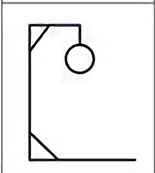
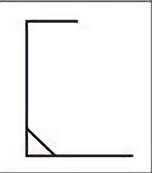
bug fixed, need refactor code

Changed region(s): [[0.1579, 0.0867, 0.8947, 0.9538], [0.0, 0.0, 1.0, 1.0]]

diff --git a/src/components/game/game.js b/src/components/game/game.js
@@ -2,6 +2,7 @@ import Input from "./gameComponents/guessInput"
 import Hangman from "./gameComponents/hangman"
 import Display from "./gameComponents/letterDisplay"
 import Score from "./gameComponents/scoreRoundDisplay"
+import GuessDisplay from "./gameComponents/guessDisplay"
 import React  from "react"
 import {getRandomWord} from "../../utils"
 
@@ -21,24 +22,26 @@ class Game extends React.Component {
       isRoundDone: false,
     };
 
-    this.updateGuess = this.updateGuess.bind(this);
+    this.updateGuessAndWins = this.updateGuessAndWins.bind(this);
+    this.nextGame = this.nextGame.bind(this)
+    this.restart = this.restart.bind(this)
   }
-
+  
   //Update user's guess
   //there will be a lot of temp variable with similar name as state which is used to update the state
-  updateGuessAndWins = (userGuess) => {
+  async updateGuessAndWins(userGuess){
     //if user was trying to guess the word
     if (userGuess.length === this.state.currWord.length) {
       if (userGuess === this.state.currWord) {
         let gamesWon = this.state.wins;
-        this.setState({
+        await this.setState({
           wins: gamesWon + 1,
           isRoundDone: true,
         });
       } else {
         let guessLeft = this.state.numOfGuess;
-        this.setState({
-          numGuess: guessLeft - 1,
+        await this.setState({
+          numGuess: guessLeft + 1,
         });
       }
     }
@@ -54,26 +57,32 @@ class Game extends React.Component {
       if (this.state.currWord.includes(userGuess)) {
         let updateDisplay = this.state.displayLetters;
         updateDisplay.push(userGuess);
-        this.setState({
+        await this.setState({
           displayLetters: updateDisplay,
           gussedletters: updateGuess,
         });
       } else {
         let numGuess = this.state.numOfGuess;
-        this.setState({
+        await this.setState({
           guessedLetters: updateGuess,
-          numOfGuess: numGuess - 1,
+          numOfGuess: numGuess + 1,
+          //isRoundDone: numGuess + 1 === this.state.numOfAllowedGuess ? true : false 
         });
       }
     }
     //rejects
-    else {
+    //catch numbers
+    else if(isNaN(userGuess) !== true){
       alert("Please eneter a SINGLE letter or the word you want to guess.");
+    }
+    else{
+      alert("Please eneter a SINGLE letter or the word you want to guess.");
+      console.log(this.state)
     }
 
     //Update win condition (letters)
     const letterToWin = new Set(...this.state.currWord)
-    if(this.state.numOfGuess === this.state.numOfAllowedGuess || letterToWin.length === this.state.displayLetters.length){
+    if(this.state.numOfGuess === this.state.numOfAllowedGuess || letterToWin.size === this.state.displayLetters.length){
       let win = this.state.wins
       //loss
       if(this.state.numOfGuess === this.state.numOfAllowedGuess){
@@ -82,7 +91,7 @@ class Game extends React.Component {
         });
       }
       //win
-      else if (letterToWin.length === this.state.displayLetters.length){
+      else if (letterToWin.size === this.state.displayLetters.length){
         this.setState({
           isRoundDone: true,
           wins: win + 1,
@@ -92,23 +101,42 @@ class Game extends React.Component {
         console.log("I don't know how you managed to get to here.")
       }
     }
-
+    console.log(this.state.isRoundDone)
   };
+
+  nextGame = () => {
+    const nextRound = this.state.rounds
+    this.setState({
+      currWord: "destiny",
+      guessedLetters: [],
+      displayLetters: [],
+      numOfGuess: 0,
+      userGuess: "",
+      currRound: 1,
+      rounds: nextRound + 1,
+      isRoundDone: false,
+    });
+  }
+
+  restart = () => {
+    this.props.restart()
+  }
 
   render() {
     let button = <p></p>
     if(this.state.currRound === this.state.rounds){
-      button = <button onClick={this.nextGame}>Next Round</button>
-    }
-    else{
       button = <button onClick={this.restart}>Replay Game</button>
     }
-    
+    else{
+      button = <button onClick={this.nextGame}>Next Game</button>
+    }
+    console.log(this.state.numOfGuess, this.state.numOfAllowedGuess)
     return (
       <div>
-        <Score score={this.state.wins} total={this.state.currRound} />
+        <Score score={this.state.wins} currentRound={this.state.currRound} />
         <Display word={this.state.currWord} display={this.state.displayLetters} />
-        <Input getGuess={this.updateGuess} />
+        <GuessDisplay letters={this.state.guessedLetters}/>
+        <Input getGuess={this.updateGuessAndWins} />
         {this.state.isRoundDone && button}
         <Hangman numGuess={this.state.numOfAllowedGuess} guessLeft={this.state.numOfGuess}/>
       </div>

diff --git a/src/App.js b/src/App.js
@@ -22,21 +22,30 @@ class App extends React.Component {
   }
 
   setGameUp = (data) =>{
+    console.log(data)
     this.setState({
       gameMode: data.gameMode,
       guess: parseInt(data.guess),
       rounds: parseInt(data.rounds)
-    },console.log(this.state.guess, this.state.rounds))
+    })
+
+  }
+
+  reset = () =>{
+    this.setState({
+      gameMode: "Start"
+    })
   }
 
   // Insert form callback functions handleChange and handleSubmit here
 
   render() {
+    console.log(this.state.guess, this.state.rounds);
     return (
       <div className="App">
         <header className="App-header">
           {this.state.gameMode === "Start" && (<Start setUp={this.setGameUp} />)}
-          {this.state.gameMode === "Game" && <Game guess={this.state.guess} rounds={this.state.rounds}/>}
+          {this.state.gameMode === "Game" && <Game guess={this.state.guess} rounds={this.state.rounds} restart={this.reset}/>}
         </header>
       </div>
     );

diff --git a/src/components/game/gameComponents/letterDisplay.js b/src/components/game/gameComponents/letterDisplay.js
@@ -1,12 +1,9 @@
 import React from "react";
 
 class Display extends React.Component {
-  constructor(props){
-    super(props)
-    this.state = {
-    }
+  async game() {
+    
   }
-
   render() {
     const letterArr = this.props.display
     const word = this.props.word.split('')
@@ -15,8 +12,7 @@ class Display extends React.Component {
         {letterArr.indexOf(letter) >= 0 ? letter : "_"}
       </div>
     ));
-    
-    console.log(display);
+
     return(
       <div className="display">
         {display}

diff --git a/src/components/game/gameComponents/hangman.js b/src/components/game/gameComponents/hangman.js
@@ -2,7 +2,14 @@ import React from "react";
 
 class Hangman extends React.Component {
   render() {
-    return;
+    const hangmanStage = Math.floor(
+      (this.props.guessLeft / this.props.numGuess) * 12
+    );
+    return(
+      <div style={{marginTop: 30}}>
+        <img src={require(`../../../../src/hangman/hangman_${hangmanStage}.png`)} alt = "hangman"/>
+      </div>
+    );
   }
 }
 

diff --git a/src/components/game/gameComponents/guessDisplay.js b/src/components/game/gameComponents/guessDisplay.js
@@ -1,0 +1,18 @@
+import React from "react";
+
+class GuessDisplay extends React.Component{
+  render(){
+    let display = ''
+    for(let i = 0; i < this.props.letters.length; i++){
+      display += `${this.props.letters[i]} `
+    }
+    return(
+      <div>
+        <p style={{margin: 4}}>Gussed Letters:</p>
+        {display}
+      </div>
+    )
+  }
+}
+
+export default GuessDisplay

diff --git a/src/components/game/gameComponents/scoreRoundDisplay.js b/src/components/game/gameComponents/scoreRoundDisplay.js
@@ -2,7 +2,12 @@ import React from "react";
 
 class Score extends React.Component {
   render() {
-    return;
+    return (
+      <div>
+        <h3>Round {this.props.currentRound}</h3>
+        <h4> Score: {this.props.score} / {this.props.currentRound}</h4>
+      </div>
+    );
   }
 }
 
